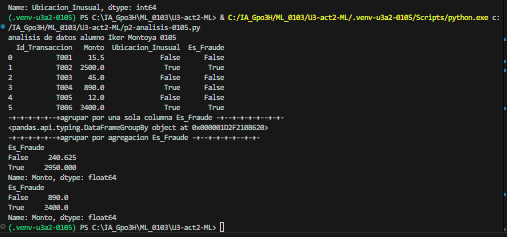
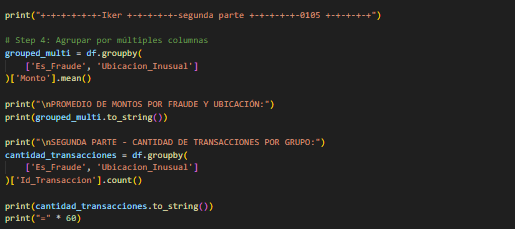
Add files via upload

diff --git a/U3-act2-ML/p2-analisis-0105.py b/U3-act2-ML/p2-analisis-0105.py
@@ -1,22 +1,46 @@
-
+# importar librerias
 import pandas as pd
 import numpy as np
-print("analisis de datos alumno Iker Montoya 0105 ")
+
+print("Analisis de datos transacciones Iker Montoya NC=0105")
 
 transacciones = {
     "Id_Transaccion": ["T001", "T002", "T003", "T004", "T005", "T006"],
-    "Monto": [15.50, 2500.00, 45.00, 890.00, 45.00, 3400.00],
+    "Monto": [15.50, 2500.00, 45.00, 890.00, 12.00, 3400.00],
     "Ubicacion_Inusual": [False, True, False, True, False, True],
     "Es_Fraude": [False, True, False, False, False, True]
 }
+
 df = pd.DataFrame(transacciones)
 print(df)
-print("-+-+-+-+-+--+agrupar por una sola columna Es_Fraude -+--+-+-+-+--+-+-")
-agrupados = df.groupby('Es_Fraude')
-print(agrupados)
-print("-+-+-+-+-+--+agrupar por agregacion Es_Fraude -+--+-+-+-+--+-+-")
-# Average monto by fraude
-print(agrupados['Monto'].mean())
 
-# Maximum monto in each fraude
-print(agrupados['Monto'].max())
+print("-+--++--+-+ AGRUPAR COLUMNAS -+-+-+-+-+-+-+-+")
+agrupado = df.groupby('Ubicacion_Inusual')
+print(agrupado)
+
+print("-+--++--+-+ POR AGREGACION -+-+-+-+-+-+-+-+")
+
+# Es_Fraude
+print(agrupado['Es_Fraude'].mean())
+
+print("-+-+-+-+--+ Monto maximo -++-+--++-+-+--++")
+
+# Monto
+print(agrupado['Monto'].max())
+
+print("Iker-+-+-+-++-+ segunda parte -+-+-+-+-+-+0105")
+print("Agregaciones multiples ")
+print("mean --> promedio, sum --> suma")
+print("max --> maximo, min --> minimo")
+
+resultado_agregado = agrupado['Monto'].agg(['mean', 'sum', 'max', 'min'])
+print(resultado_agregado)
+
+print("Agrupacion por varias columnas")
+print("Agrega columna al dataframe")
+print("columna tipo --> fraude")
+
+df['tipo'] = ['Normal', 'Fraude', 'Normal', 'Normal', 'Normal', 'Fraude']
+
+agrupado_multiple = df.groupby(['Ubicacion_Inusual', 'tipo'])['Monto'].mean()
+print(agrupado_multiple)

diff --git a/U3-act2-ML/leeme2.md b/U3-act2-ML/leeme2.md
@@ -1,0 +1,5 @@
+## segunda parte codigo 
+![alt text](image-1.png)
+
+## resultados 
+![alt text](image-2.png)
